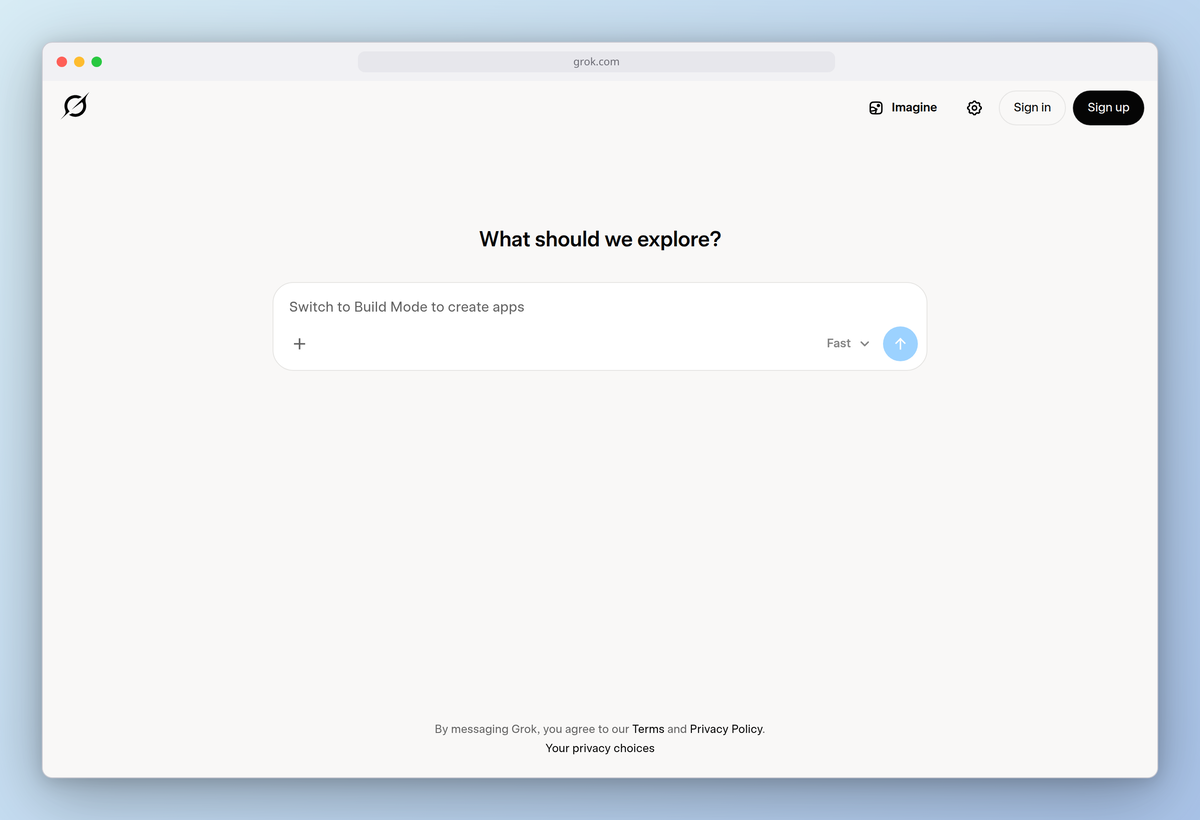
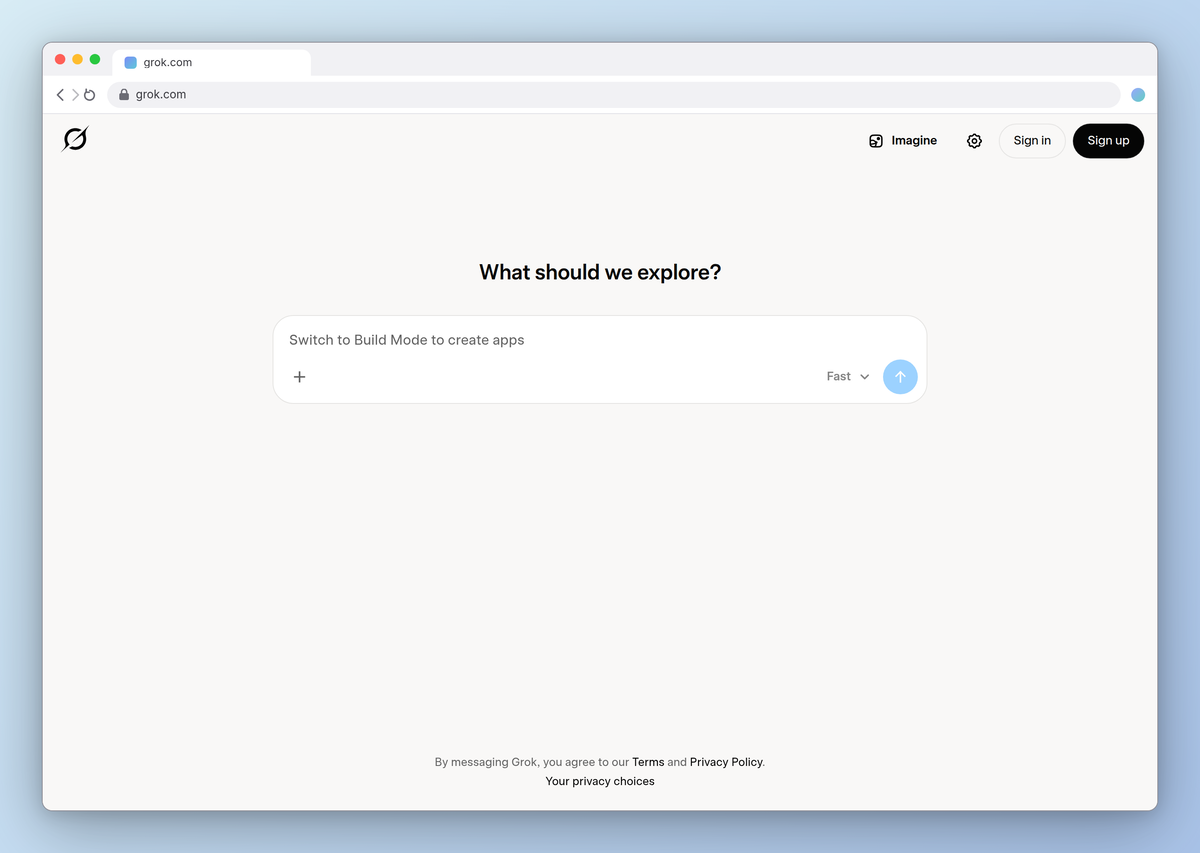
plinth: regenerated grok.com showcases in both modes + spec-table docs
Standalone and safari mode phone shots, multi-device row, browser
window, and the spec-overlay evidence image; README documents the
cited spec table, modes, Inter fallback, and APPROX-flagged values.

diff --git a/skills/plinth/README.md b/skills/plinth/README.md
@@ -2,55 +2,118 @@
 
 Device-framed, DPR-correct screenshots of a running app or URL — the
 Figma-mockup-plugin workflow (device frames around app shots) without
-leaving the terminal, driven by your coding agent.
+leaving the terminal, driven by your coding agent, with spec-accurate
+device chrome.
 
-Plinth captures with Playwright at exact device viewports and composites
-the shot into a clean device frame generated as plain CSS (rounded
-bodies, camera pill, browser chrome dots — no copyrighted vendor
-artwork). Output is PNG, or a scrolled mp4/gif via ffmpeg.
+Plinth captures with Playwright at the device's **safe-area viewport**
+(page content never sits under the Dynamic Island, status bar, or home
+indicator), draws faithful chrome, and composites at native DPR. Frames
+and chrome are generated CSS/SVG — no copyrighted vendor artwork.
 
 ![grok.com (logged out) on phone, tablet and laptop frames, dark](assets/grok-com-multi-device-dark.png)
 
 ## Quick start
 
 ```bash
-cd skills/plinth && npm install        # playwright-core, one dependency
-node scripts/plinth.mjs https://grok.com --device iphone-15-pro --dark
+cd skills/plinth && npm install     # playwright-core + @fontsource/inter
+node scripts/plinth.mjs https://grok.com --device iphone-16-pro --dark
+node scripts/plinth.mjs https://grok.com --device iphone-16-pro --mode safari --dark
 ```
 
 Requires Node ≥ 18 and an installed Chrome/Chromium (playwright-core
 drives it via the `chrome` channel — no browser download; set
-`BEZEL_BROWSER=/path/to/chrome` to override). ffmpeg only for `--scroll`.
+`PLINTH_BROWSER=/path/to/chrome` to override). ffmpeg only for `--scroll`.
 
 <p>
-  <img alt="grok.com framed as iPhone 15 Pro, dark" src="assets/grok-com-iphone-15-pro-dark.png" width="300" />
+  <img alt="grok.com as iPhone 16 Pro, standalone mode: status bar, island, home indicator, content inside the safe area" src="assets/grok-com-iphone-16-pro-dark.png" width="300" />
   &nbsp;
-  <img alt="grok.com in a browser window frame, light" src="assets/grok-com-browser-light.png" width="560" />
+  <img alt="grok.com as iPhone 16 Pro in safari mode with the compact bottom address bar" src="assets/grok-com-iphone-16-pro-safari-dark.png" width="300" />
 </p>
 
 All showcase shots are public, logged-out pages (captures run in a
 fresh browser context, so there is never a session to leak).
 
-## Devices
+## Phone presentation modes
 
-| id | viewport | DPR | frame |
-| --- | --- | --- | --- |
-| `iphone-15-pro` | 393×852 | 3 | phone, camera pill |
-| `pixel-8` | 412×915 | 2.625 | phone, punch-hole dot |
-| `ipad-pro-11` | 834×1194 | 2 | tablet |
-| `macbook-14` | 1512×982 | 2 | laptop with deck |
-| `browser` | 1280×800 | 2 | browser chrome with URL bar |
+- **`--mode standalone`** (default): app-style. Plinth draws the iOS
+  status bar (9:41, cellular/wifi/battery) and home indicator; the page
+  is captured at `height − safe-area-top − safe-area-bottom`, so no
+  content ever sits under the island. The safe-area bands are painted
+  with the page's own sampled background color, like a real
+  safe-area-aware app.
+- **`--mode safari`**: mobile Safari. Status bar plus the iOS-18-style
+  compact bottom address bar showing the domain, viewport reduced to
+  match. (Safari's bar is a dynamic element with no fixed published
+  height; drawn as a 50pt pill zone above the 34pt safe area —
+  approximation by design.)
+- **`--mode bare`**: full-bleed capture under everything (the old
+  behavior), island drawn on top. For pages that draw their own mobile
+  chrome.
 
-Single-device output is 1:1 native pixels (viewport × DPR). Multi-device
-rows (`--devices a,b,c`) composite at @2x.
+The status bar color scheme follows the page's background luminance
+(light content on dark pages), overridable with `--status light|dark`.
+The home indicator adapts the same way. Status-bar text renders in
+**Inter** (bundled via `@fontsource/inter`): SF Pro cannot be
+redistributed, and Inter is the closest freely-licensed metric match.
+
+## Device spec table (all values cited)
+
+Geometry lives in `scripts/devices.mjs` with per-value citations.
+Sources: [useyourloaf screen sizes](https://useyourloaf.com/blog/iphone-16-screen-sizes/)
+(points, scale, status bar, safe areas), [1440px.com/safe-area](https://1440px.com/safe-area/)
+(cross-model safe-area table), measured home-indicator geometry
+([134×5pt, 8pt above the edge](https://stackoverflow.com/q/53109069)),
+`_displayCornerRadius` collations (55pt / 62pt), island geometry from
+public UI kits and simulator shells (124–126×36–37pt @ y≈11 — we use
+125×37 and note the ±1pt source disagreement),
+[bjango](https://bjango.com/articles/designingmenubarextras/) and
+[crestnotch](https://crestnotch.app/macbook-notch-dimensions) for the
+MacBook menu bar (37pt) and notch (≈185pt, flagged "derived" there).
+
+| id | viewport (pt) | DPR | safe top/bottom | chrome |
+| --- | --- | --- | --- | --- |
+| `iphone-16-pro` | 402×874 | 3 | 62 / 34 | island 125×37 @y11, status 54, radius 62, indicator 134×5 |
+| `iphone-16` | 393×852 | 3 | 59 / 34 | island, status 54, radius 55 |
+| `iphone-15-pro` | 393×852 | 3 | 59 / 34 | island, status 54, radius 55 |
+| `pixel-8` | 412×915 | 2.625 | 28 / 24 | punch hole, Android status bar — metrics APPROX |
+| `ipad-pro-11` | 834×1194 | 2 | 24 / 20 | status 24, radius 18, indicator width APPROX |
+| `macbook-14` | 1512×982 | 2 | menu bar 37 | notch 185×37, macOS-style menu bar |
+| `browser` | 1280×800 | 2 | — | Chromium-style tab strip 38 + toolbar 44 (APPROX) |
+
+Values marked APPROX have no authoritative public source (Android
+chrome, Safari's dynamic bar, iPad indicator width, browser chrome) and
+are drawn from real screenshots; everything else is cited.
+
+Screen corners are **continuous-curvature**: a sampled superellipse
+(exponent 4.5) rather than CSS's circular `border-radius`, and the same
+squircle path both clips the screenshot and cuts the frame's hole, so
+the inner radius matches exactly with no gaps or halos. Side buttons:
+`--buttons` (positions approximate).
+
+## Built-in verification (every single-device run, exit 1 on failure)
+
+- capture buffer is exactly the safe-area viewport × DPR;
+- output PNG dimensions equal the computed frame+padding size;
+- content-center pixel matches the raw capture (alignment);
+- the Dynamic Island region is solid black at its spec position;
+- the home indicator is present at its spec position.
+
+`scripts/spec-overlay.mjs` draws the cited geometry over any output for
+visual review (a real iOS Simulator isn't runnable in a Linux
+environment, so the overlay validates against the cited numeric spec):
+
+<img alt="spec overlay: status bar, island, safe-area and home-indicator regions drawn over a real render" src="assets/spec-overlay-iphone-16-pro.png" width="300" />
 
 ## Options
 
 ```
---device <id>       one device (default iphone-15-pro)
---devices <a,b,c>   multi-device row
+--device <id>       one device (default iphone-16-pro)
+--devices <a,b,c>   multi-device row (composited @2x)
+--mode <m>          standalone | safari | bare   (phones/tablets)
+--status <s>        auto | light | dark          (status bar content)
+--buttons           side buttons on phone frames
 --out <file>        output path (.png; .mp4/.gif with --scroll)
---bg <value>        studio | studio-dark | sunset | ocean | none | any CSS background
+--bg <value>        studio | studio-dark | sunset | ocean | none | any CSS
 --padding <px>      space around the frame (default 48)
 --no-shadow         flat, no drop shadow
 --dark              dark color scheme + dark studio background
@@ -60,37 +123,18 @@ rows (`--devices a,b,c`) composite at @2x.
 --scroll            scrolled full-page capture → mp4/gif (ffmpeg)
 ```
 
-## Built-in verification
-
-Every single-device run checks itself and exits 1 on failure:
-
-- **capture is DPR-exact** — screenshot buffer is exactly viewport × DPR;
-- **output matches device spec** — output PNG dimensions equal the
-  computed frame + padding size at the device DPR;
-- **frame alignment** — the output is decoded (zero-dep PNG reader) and
-  the screen-center pixel is compared against the raw capture.
-
 ## Tested on (real sites, 2026-09-25)
 
 | Site | Run | Result / findings |
 | --- | --- | --- |
-| [grok.com](https://grok.com) (logged out) | `iphone-15-pro --dark`, `--devices iphone-15-pro,ipad-pro-11,macbook-14 --dark`, `browser --frame light` | Clean; responsive layout differences visible per device; all checks pass. Showcase images above come from these runs. |
-| x.ai / docs.x.ai / console.x.ai | `browser` | **Finding:** blocked for this test machine's egress (Cloudflare "you have been blocked" page rendered; checks passed because the block page really rendered). Re-run from a normal network to capture these. |
-| [vercel.com](https://vercel.com) | `iphone-15-pro --dark` | Clean; dark scheme respected; all checks pass. |
-| [app-router.vercel.app](https://app-router.vercel.app) (Next.js App Router playground) | `--devices iphone-15-pro,ipad-pro-11,macbook-14 --dark` | Multi-device row, 6410×2692 @2x. |
-| [commerce-shopify.vercel.app](https://commerce-shopify.vercel.app) (Vercel Commerce) | `browser --frame light`, `--scroll` mp4 | Real cookie banner hidden with `--hide '[class*="FeatureBar"]'`; product grid renders empty because the demo's Shopify backend returns no products — an app-state issue Plinth can't fix, look at your output. 61-frame scroll mp4 verified with ffprobe. |
-| [github.com](https://github.com) | `browser` | Clean; checks pass. |
-| taxonomy.vercel.app | `macbook-14` | **Gotcha found:** this is *not* shadcn's taxonomy; it's an unrelated app loading React from a CDN that the test network blocked → blank screen. Plinth's checks passed (the page really was blank) — always eyeball the output. |
+| [grok.com](https://grok.com) (logged out) | standalone + safari modes dark, multi-device dark row, browser light | All fidelity checks pass; showcase images above come from these runs. Spec overlay confirms region registration. |
+| x.ai / docs.x.ai / console.x.ai | `browser` | **Finding:** blocked for this test machine's egress (Cloudflare block page rendered; checks passed because the block page really rendered). Re-run from a normal network. |
+| vercel.com, app-router.vercel.app, commerce-shopify.vercel.app, github.com | earlier runs | See git history: cookie banner via `--hide`, empty API-backed states, blocked-CDN blank pages — all documented app-state findings, not frame issues. |
 
-Limitations found on real pages: sites that gate on cookies/geo render
-their gated state; JS from blocked third-party CDNs renders blank (not
-detectable by dimension checks); empty API-backed states look "broken"
-but are app truth.
-
-## Future mode (not in this version)
-
-Capturing a component in isolation (Storybook/gallery URLs work today by
-URL); authenticated flows via a persistent browser profile.
+Known limitations: multi-device rows composite at @2x (mixed native
+DPRs can't share one page); verification is dimensional + pixel
+sampling and cannot judge app-level blankness; APPROX metrics listed
+above; no authenticated-session capture yet.
 
 ## Tests
 
@@ -98,8 +142,10 @@ URL); authenticated flows via a persistent browser profile.
 cd skills/plinth && npm install && npm test
 ```
 
-Covers: DPR-exact capture and output dimensions, pixel-level frame
-alignment, dark scheme flip, `--hide`, deterministic multi-device
-dimensions, fractional DPR (pixel-8), scroll mp4 (ffprobe-verified), and
-usage errors — against a local fixture server (no external network).
-Tests self-skip without Chrome.
+14 tests, including fidelity assertions against a fixture with edge
+markers: no page pixels under the island/status bar/home indicator in
+standalone mode, exact content-origin at the safe-area top, island
+blackness at spec coordinates, home-indicator presence/contrast, safari
+pill presence, macOS menu bar + notch, browser chrome, deterministic
+multi-device dims, fractional DPR, scroll mp4. Tests self-skip without
+Chrome.

diff --git a/skills/plinth/SKILL.md b/skills/plinth/SKILL.md
@@ -24,23 +24,28 @@ is pixel-sharp) and composites it into a clean generated device frame.
 2. Capture:
 
    ```bash
-   node <path-to-skill>/scripts/plinth.mjs http://localhost:3000 --device iphone-15-pro
-   node <path-to-skill>/scripts/plinth.mjs https://myapp.dev --devices iphone-15-pro,macbook-14 --dark
-   node <path-to-skill>/scripts/plinth.mjs https://myapp.dev --device iphone-15-pro --scroll --out demo.mp4
+   node <path-to-skill>/scripts/plinth.mjs http://localhost:3000 --device iphone-16-pro
+   node <path-to-skill>/scripts/plinth.mjs https://myapp.dev --device iphone-16-pro --mode safari
+   node <path-to-skill>/scripts/plinth.mjs https://myapp.dev --devices iphone-16-pro,macbook-14 --dark
+   node <path-to-skill>/scripts/plinth.mjs https://myapp.dev --device iphone-16-pro --scroll --out demo.mp4
    ```
 
-   Devices: `iphone-15-pro`, `pixel-8`, `ipad-pro-11`, `macbook-14`,
-   `browser`. Useful flags: `--dark` (page color scheme + dark studio
-   background), `--bg studio|studio-dark|sunset|ocean|none|<css>`,
-   `--frame light`, `--padding`, `--no-shadow`,
-   `--hide "<selector,selector>"` for cookie banners, `--wait <ms>` for
-   slow pages.
+   Devices: `iphone-16-pro`, `iphone-16`, `iphone-15-pro`, `pixel-8`,
+   `ipad-pro-11`, `macbook-14`, `browser`. Phone modes: `--mode
+   standalone` (default: status bar + home indicator, page captured
+   inside the safe area so nothing sits under the Dynamic Island) |
+   `safari` (mobile Safari with compact bottom bar) | `bare`
+   (full-bleed). Other flags: `--status light|dark` overrides the
+   luminance-based status bar scheme, `--buttons`, `--dark`,
+   `--bg <preset|css>`, `--frame light`, `--padding`, `--no-shadow`,
+   `--hide "<selector,selector>"`, `--wait <ms>`.
 
 3. **Trust the checks, and say what they said.** Every single-device run
-   verifies itself and prints `check:` lines: capture is DPR-exact,
-   output dimensions match the device spec, and frame alignment via
-   pixel sampling. Exit 1 means a check failed — do not hand the image
-   over; re-run with `--wait` higher or report the failure.
+   verifies itself and prints `check:` lines: safe-area capture is
+   DPR-exact, output dimensions match the device spec, frame alignment,
+   the Dynamic Island is solid black at its spec position, and the home
+   indicator is present. Exit 1 means a check failed — do not hand the
+   image over; re-run with `--wait` higher or report the failure.
 
 4. Look at the output image before delivering it. Real pages have real
    problems: cookie banners (`--hide`), unseeded/empty states, fonts
